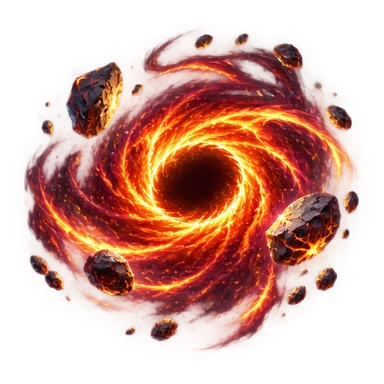
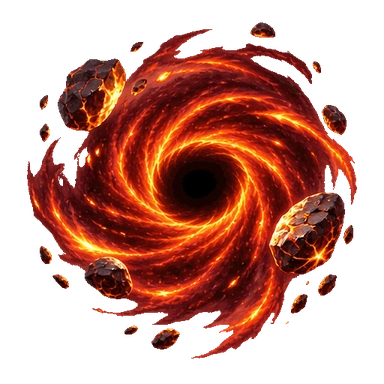
art(ui): replace three skill animations with authored frames

diff --git a/assets/skill-icons/candidates/animated-package/README.md b/assets/skill-icons/candidates/animated-package/README.md
@@ -1,3 +1,11 @@
+# Revision: three evolution skill illustrations (2026-11-26)
+
+The original candidate package below describes the earlier 10-asset batch. The three entries `frozen-thunderstorm`, `infernal-singularity`, and `blade-tempest` are superseded by the six authored GIF frames in this revision. The other seven entries are unchanged. Each 512 × 512 source frame is downsampled to 384 × 384; alpha and infinite looping are preserved. The revised animations have six distinct decoded frames each, with original timing (150/140/130 ms per frame respectively); they are not 24 FPS. No artificial interpolation or whole-image transform. All three are under the 1.2 MB reference budget. Pillow/libwebp encoding was used, not Polytool; browser/CI/visual acceptance remain pending. See the manifest for exact hashes, timing and provenance.
+
+---
+
+## Historical original candidate package
+
 # Eclipse Survivors — 10 animated upgrade skill illustrations (candidate)
 
 Target repository: `weskao/eclipse-survivors`
